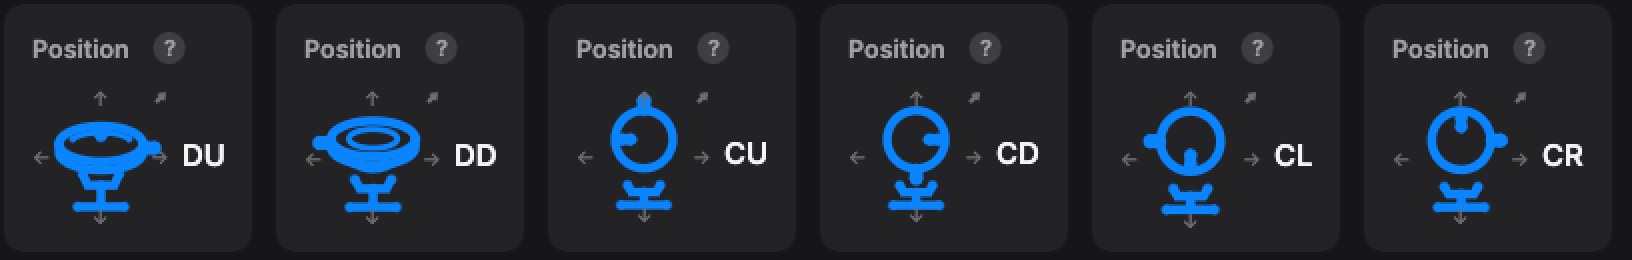
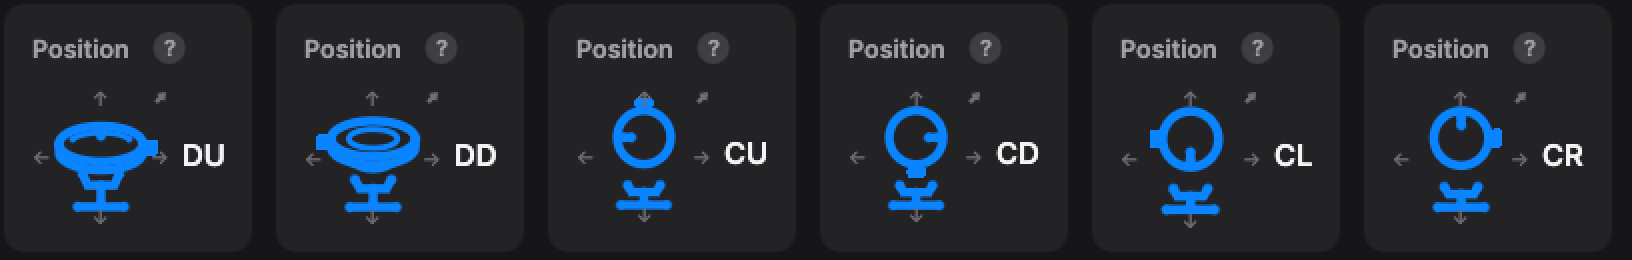
Two-mode choices show the mode in use; the crown is a solid block
A two-way toolbar choice is one icon showing the choice in use (Direction
shows the down arrow while the strip runs down); a click changes to the
other. The crown on the position pictures is a solid block, bigger than
the 12's thin mark. Unsorted Takes is listed above the empty list's hint.

Claude-Session: https://claude.ai/code/session_01GsSg6RBnTb5YLpmgbJGamZ

diff --git a/crates/timegrapher-app/src/icons.rs b/crates/timegrapher-app/src/icons.rs
@@ -199,24 +199,25 @@ fn drawing(icon: Icon) -> &'static str {
         // tilted so its top shows, the crystal's dome and 12 o'clock's
         // mark for dial up, the case back's ring and the dome below for
         // dial down; standing, face-on, its 12 o'clock mark and crown
-        // where they are. The crown is the thick knob; no lugs.
+        // where they are. The crown is the solid block, bigger than the
+        // 12's thin mark; no lugs.
         Icon::DialUp => {
-            r#"<ellipse cx="12" cy="9.5" rx="8" ry="3.4"/><path d="M4 9.5v1.6a8 3.4 0 0 0 16 0V9.5"/><path d="M6.6 8.6a6 2.2 0 0 1 10.8 0" stroke-width="1.1"/><path stroke-width="2.2" d="M12 6.9v1.1"/><path stroke-width="2.6" d="M20.4 10.3h1.8"/><path d="M8.5 15.2L9.5 17.4H14.5L15.5 15.2"/><path d="M12 17.4V21M7.5 21.5H16.5"/>"#
+            r#"<ellipse cx="12" cy="9.5" rx="8" ry="3.4"/><path d="M4 9.5v1.6a8 3.4 0 0 0 16 0V9.5"/><path d="M6.6 8.6a6 2.2 0 0 1 10.8 0" stroke-width="1.1"/><path d="M12 6.9v1.1"/><rect x="20.4" y="8.6" width="2.4" height="3.2" rx=".7" fill="currentColor" stroke="none"/><path d="M8.5 15.2L9.5 17.4H14.5L15.5 15.2"/><path d="M12 17.4V21M7.5 21.5H16.5"/>"#
         }
         Icon::DialDown => {
-            r#"<ellipse cx="12" cy="8.5" rx="8" ry="3.4"/><path d="M4 8.5v1.6a8 3.4 0 0 0 16 0V8.5"/><ellipse cx="12" cy="8.5" rx="4.6" ry="1.8" stroke-width="1.1"/><path d="M7 12.6Q12 16.4 17 12.6" stroke-width="1.1"/><path stroke-width="2.6" d="M3.6 9.3H1.8"/><path d="M8.5 16.2L9.5 18H14.5L15.5 16.2"/><path d="M12 18V21M7.5 21.5H16.5"/>"#
+            r#"<ellipse cx="12" cy="8.5" rx="8" ry="3.4"/><path d="M4 8.5v1.6a8 3.4 0 0 0 16 0V8.5"/><ellipse cx="12" cy="8.5" rx="4.6" ry="1.8" stroke-width="1.1"/><path d="M7 12.6Q12 16.4 17 12.6" stroke-width="1.1"/><rect x="1.2" y="7.6" width="2.4" height="3.2" rx=".7" fill="currentColor" stroke="none"/><path d="M8.5 16.2L9.5 18H14.5L15.5 16.2"/><path d="M12 18V21M7.5 21.5H16.5"/>"#
         }
         Icon::CrownUp => {
-            r#"<circle cx="12" cy="8.8" r="5.6"/><path stroke-width="2.2" d="M7.7 8.8L9.5 8.8"/><path stroke-width="2.6" d="M12 2.9L12 1.3"/><path d="M8.8 17.6L9.6 19H14.4L15.2 17.6"/><path d="M12 19V21M7.5 21.5H16.5"/>"#
+            r#"<circle cx="12" cy="8.4" r="5.2"/><path d="M8 8.4L9.6 8.4"/><rect x="10.2" y="0.7" width="3.6" height="2" rx=".7" fill="currentColor" stroke="none"/><path d="M8.8 17.6L9.6 19H14.4L15.2 17.6"/><path d="M12 19V21M7.5 21.5H16.5"/>"#
         }
         Icon::CrownDown => {
-            r#"<circle cx="12" cy="8.8" r="5.6"/><path stroke-width="2.2" d="M16.3 8.8L14.5 8.8"/><path stroke-width="2.6" d="M12 14.7L12 16.3"/><path d="M8.8 17.6L9.6 19H14.4L15.2 17.6"/><path d="M12 19V21M7.5 21.5H16.5"/>"#
+            r#"<circle cx="12" cy="8.4" r="5.2"/><path d="M16 8.4L14.4 8.4"/><rect x="10.2" y="14.1" width="3.6" height="2" rx=".7" fill="currentColor" stroke="none"/><path d="M8.8 17.6L9.6 19H14.4L15.2 17.6"/><path d="M12 19V21M7.5 21.5H16.5"/>"#
         }
         Icon::CrownLeft => {
-            r#"<circle cx="12" cy="8.8" r="5.6"/><path stroke-width="2.2" d="M12 13.1L12 11.3"/><path stroke-width="2.6" d="M6.1 8.8L4.5 8.8"/><path d="M8.8 17.6L9.6 19H14.4L15.2 17.6"/><path d="M12 19V21M7.5 21.5H16.5"/>"#
+            r#"<circle cx="12" cy="8.4" r="5.2"/><path d="M12 12.4L12 10.8"/><rect x="4.3" y="6.6" width="2" height="3.6" rx=".7" fill="currentColor" stroke="none"/><path d="M8.8 17.6L9.6 19H14.4L15.2 17.6"/><path d="M12 19V21M7.5 21.5H16.5"/>"#
         }
         Icon::CrownRight => {
-            r#"<circle cx="12" cy="8.8" r="5.6"/><path stroke-width="2.2" d="M12 4.5L12 6.3"/><path stroke-width="2.6" d="M17.9 8.8L19.5 8.8"/><path d="M8.8 17.6L9.6 19H14.4L15.2 17.6"/><path d="M12 19V21M7.5 21.5H16.5"/>"#
+            r#"<circle cx="12" cy="8.4" r="5.2"/><path d="M12 4.4L12 6"/><rect x="17.7" y="6.6" width="2" height="3.6" rx=".7" fill="currentColor" stroke="none"/><path d="M8.8 17.6L9.6 19H14.4L15.2 17.6"/><path d="M12 19V21M7.5 21.5H16.5"/>"#
         }
         // An arrow rising out of an open-topped box: Export, as Share is
         // drawn on a Mac.

diff --git a/crates/timegrapher-app/src/theme.rs b/crates/timegrapher-app/src/theme.rs
@@ -1301,9 +1301,8 @@ pub fn tool_field<R>(
 
 /// One of a few choices in a toolbar: a row of icons, the picked one
 /// tinted; under "…" or in a settings list, the choices in words. True
-/// when the choice changed. Two choices are one switch, not two icons:
-/// the second choice's icon, tinted while it is picked, and a click
-/// flips between them.
+/// when the choice changed. Two choices are one button, not two icons:
+/// the icon of the choice in use, and a click changes to the other.
 pub fn tool_choice<T: PartialEq + Copy>(
     ui: &mut Ui,
     label: &str,
@@ -1311,26 +1310,23 @@ pub fn tool_choice<T: PartialEq + Copy>(
     value: &mut T,
     choices: &[(T, Icon, &str, &str)],
 ) -> bool {
-    if let [(off, _, off_name, off_why), (on, icon, on_name, on_why)] = *choices {
-        note_icon(
-            ui,
-            icon,
-            &format!("{label}: {on_name} when lit, {off_name} when not"),
-        );
+    if let [(off, off_icon, off_name, off_why), (on, on_icon, on_name, on_why)] = *choices {
+        note_icon(ui, off_icon, &format!("{label}: {off_name}"));
+        note_icon(ui, on_icon, &format!("{label}: {on_name}"));
         return bar_item(ui, label, |ui| {
             if in_toolbar(ui) {
-                let p = pal(ui);
-                let lit = *value == on;
-                let (name, why) = if lit {
-                    (on_name, on_why)
+                // Two modes, not on and off: the icon is the mode in use,
+                // and a click changes to the other.
+                let now_on = *value == on;
+                let (icon, name, why, other) = if now_on {
+                    (on_icon, on_name, on_why, off_name)
                 } else {
-                    (off_name, off_why)
+                    (off_icon, off_name, off_why, on_name)
                 };
-                let other = if lit { off_name } else { on_name };
-                let r = icon_toggle(ui, icon, lit, p.accent)
+                let r = icon_tool(ui, icon)
                     .on_hover_text(format!("{label}: {}. Click for {other}.", hover(name, why)));
                 if r.clicked() {
-                    *value = if lit { off } else { on };
+                    *value = if now_on { off } else { on };
                 }
                 r.clicked()
             } else {

diff --git a/crates/timegrapher-app/src/app.rs b/crates/timegrapher-app/src/app.rs
@@ -4728,6 +4728,17 @@ impl TimegrapherApp {
         let picked = match &self.library {
             Ok(Some(l)) => {
                 let shown = watches::shown(l, &self.watch_search, self.watch_sort);
+                // Unsorted Takes first, any word about the list under it.
+                let tiled = shown.iter().any(|e| !e.photos.is_empty());
+                let marked = self.watch_open.as_deref();
+                if watches::unsorted_row(
+                    ui,
+                    &l.unsorted,
+                    tiled,
+                    marked.is_none() && self.unsorted_open,
+                ) {
+                    show_unsorted = true;
+                }
                 if l.watches.is_empty() {
                     ui.label(
                         RichText::new(
@@ -4740,16 +4751,6 @@ impl TimegrapherApp {
                     ui.label(
                         RichText::new("No watch matches the search.").color(pal.text_secondary),
                     );
-                }
-                let tiled = shown.iter().any(|e| !e.photos.is_empty());
-                let marked = self.watch_open.as_deref();
-                if watches::unsorted_row(
-                    ui,
-                    &l.unsorted,
-                    tiled,
-                    marked.is_none() && self.unsorted_open,
-                ) {
-                    show_unsorted = true;
                 }
                 let picked = watches::list(ui, &shown, marked, &mut self.thumbs);
                 if let Some(why) = &l.read_only {

diff --git a/crates/timegrapher-app/src/help.rs b/crates/timegrapher-app/src/help.rs
@@ -127,8 +127,8 @@ pub const BEAT_RATE: &[&str] = &[
 /// The last paragraph of every pane toolbar's "?": how its icons work.
 pub const TOOLBAR: &str = "The toolbar's icons name themselves on hover, with what they do, \
      and the key below draws each one beside its name. A \
-     switch stays pressed and tinted while it is on; of a row of icons, the tinted one is \
-     picked. When the pane is too narrow for them all, the last ones fold into the … menu at \
+     switch stays pressed and tinted while it is on; a choice of two shows the one in use, and \
+     a click changes it; of a row of icons, the tinted one is picked. When the pane is too narrow for them all, the last ones fold into the … menu at \
      the row's end, in words, and come back out when the pane is wide enough.";
 
 pub const STRIP: &[&str] = &[

diff --git a/docs/app.md b/docs/app.md
@@ -58,7 +58,8 @@ and, for a stopped take, the whole take's reading (see below).
 the watch head on a timegrapher's stand: lying, it is tilted so its top
 shows (the crystal's dome and the 12 o'clock mark for dial up, the case
 back's ring with the dome below for dial down); standing, it faces you
-with its 12 o'clock mark and its crown (the thick knob) where they are.
+with its 12 o'clock mark and its crown (the solid block, bigger than
+the 12's thin mark) where they are.
 Its name and code sit beside it (the code alone where the name won't fit on
 one line). While you listen, or before anything is on show, small faint
 arrows at the picture's edges tip the watch, seen from above with 12 away from you:
@@ -226,11 +227,10 @@ Every other pane's own settings sit in a toolbar across the top of the
 pane, one row, with the pane's **?** at its right. The toolbar is a row
 of icons, each naming itself and saying what it does on hover, in the
 words this guide uses: a switch is an icon that stays pressed, tinted,
-while it is on; a choice between two settings is one such switch,
-showing the second setting's icon, tinted while that one is picked
-(Layout's Beside, two bars side by side: tinted for Beside, plain for
-Stacked), and a choice of more is a row of icons with the picked one
-tinted.
+while it is on; a choice between two settings is one icon showing the
+setting in use, and a click changes to the other (Direction shows a
+down arrow while the strip runs down and an across arrow while it runs
+across); a choice of more is a row of icons with the picked one tinted.
 A setting that holds a value (Width, Length, Average Over, Settle) keeps
 its field, with a small icon in place of its name that has the same
 hover. **Start Test**, **Start a New Test** and **Copy** keep their words
